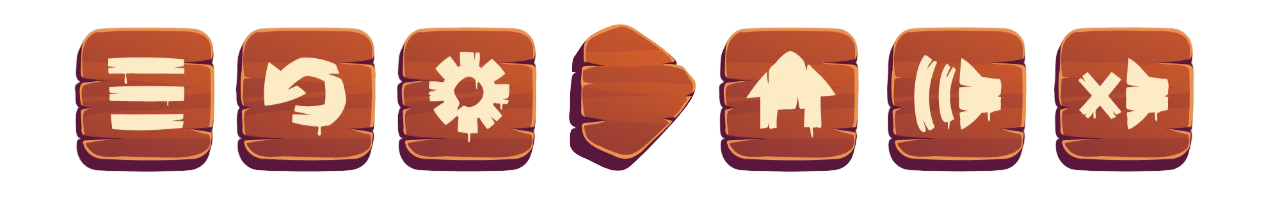
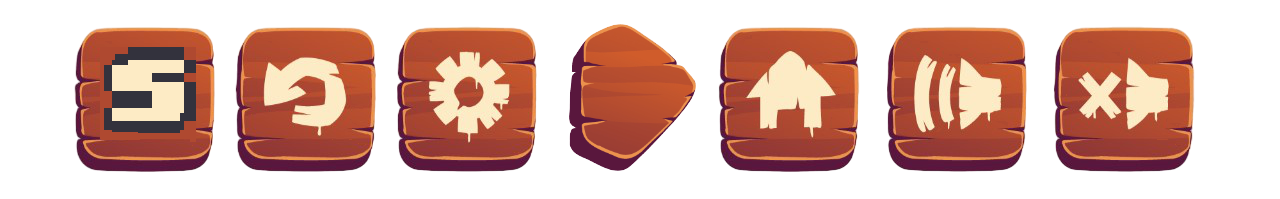
Updated Version

Changed region(s): [[0.0625, 0.2111, 0.1562, 0.6633], [0.0625, 0.6935, 0.0938, 0.7236]]

diff --git a/HeroOfLeotra/src/GameStates/Menu.java b/HeroOfLeotra/src/GameStates/Menu.java
@@ -10,7 +10,7 @@ import java.awt.event.KeyEvent;
 import java.awt.event.MouseEvent;
 import java.awt.image.BufferedImage;
 
-import static GameStates.GameState.QUIT;
+import static GameStates.GameState.*;
 
 public class Menu extends State implements stateMethods {
 
@@ -26,7 +26,7 @@ public class Menu extends State implements stateMethods {
 
     private void loadButtons() {
         buttons[0] = new MenuButton(Game.GAME_WIDTH/2 , (int)(150 * Game.SCALE),0,GameState.PLAYING);
-        buttons[1] = new MenuButton(Game.GAME_WIDTH/2 , (int)(210 * Game.SCALE),1,GameState.OPTIONS);
+        buttons[1] = new MenuButton(Game.GAME_WIDTH/2 , (int)(210 * Game.SCALE),1,GameState.LOAD);
         buttons[2] = new MenuButton(Game.GAME_WIDTH/2 , (int)(270 * Game.SCALE),2, QUIT);
 
     }
@@ -90,7 +90,13 @@ public class Menu extends State implements stateMethods {
                     mb.ModifyGameState();
                     if(mb.getGameState() == GameState.PLAYING)
                     {
+                        game.getPlaying().getPlayer().printCurrentHealth();
                         game.getAudioPlayer().setLevelSong(game.getPlaying().getLevelManager().getLevelIndex());
+                        /*int health = game.getPlaying().getPlayer().getCurrentHealth();
+                        System.out.println(health);
+                        game.getPlaying().getPlayer().setCurrentHealth(100);
+                        System.out.println(game.getPlaying().getPlayer().getCurrentHealth());
+                         */
                         //Adaugata noua in caz de da erori trebuie scoasa(Dedesubt)
                         game.getPlaying().getLevelManager().update();
 
@@ -99,9 +105,22 @@ public class Menu extends State implements stateMethods {
                     {
                         setGameState(GameState.QUIT); // va iesi instant
                     }
-                    if(mb.getGameState() == GameState.OPTIONS)
+                    if(mb.getGameState() == GameState.LOAD)
                     {
-                        // will happen something when i finish the options menu
+                        System.out.println("AM AJUNS AICI!!!!");
+                        double playerX = Game.getDataBase().getPlayerX();
+                        double playerY = Game.getDataBase().getPlayerY();
+                        int Health = Game.getDataBase().getHealth();
+
+                        GameState.state = PLAYING;
+                        game.getPlaying().resetAll();
+                        game.getPlaying().getPlayer().resetAllButSetPositionForPlayer(playerX,playerY);
+                        game.getPlaying().getPlayer().setCurrentHealth(Health);
+
+                        game.getAudioPlayer().setLevelSong(game.getPlaying().getLevelManager().getLevelIndex());
+                        game.getPlaying().getLevelManager().update();
+
+                        //setGameState(GameState.PLAYING);
                     }
                 }
                 break;

diff --git a/HeroOfLeotra/src/userInterface/PauseOverlay.java b/HeroOfLeotra/src/userInterface/PauseOverlay.java
@@ -22,7 +22,7 @@ public class PauseOverlay {
     private BufferedImage backgroundImg;
     private int bgX,bgY,bgW,bgH;
 
-    private UrmButton menuB,replayB,unpauseB;
+    private UrmButton menuB,replayB,saveB;
     public PauseOverlay(Playing playing)
     {
         this.playing = playing;
@@ -38,7 +38,7 @@ public class PauseOverlay {
 
         menuB = new UrmButton(menuX,bY,60,60,"MENU");
         replayB = new UrmButton(replayX,bY,60,60,"REPLAY");
-        unpauseB = new UrmButton(unpauseX,bY,60,60,"UNPAUSE");
+        saveB = new UrmButton(unpauseX,bY,60,60,"UNPAUSE");
 
     }
 
@@ -56,7 +56,7 @@ public class PauseOverlay {
     {
         menuB.update();
         replayB.update();
-        unpauseB.update();
+        saveB.update();
     }
 
     public void draw(Graphics g)
@@ -64,7 +64,7 @@ public class PauseOverlay {
         g.drawImage(backgroundImg,bgX,bgY,bgW,bgH,null);
         menuB.draw(g);
         replayB.draw(g);
-        unpauseB.draw(g);
+        saveB.draw(g);
     }
 
     public void mouseDragged(MouseEvent e)
@@ -87,9 +87,9 @@ public class PauseOverlay {
             replayB.setMousePressed(true);
             System.out.println("S-A APASAT IN JURUL REPLAY-ULUI");
         }
-        else if(isIn(e,unpauseB)) {
-            unpauseB.setMousePressed(true);
-            System.out.println("S-A APASAT IN JURUL UNPAUSE!");
+        else if(isIn(e,saveB)) {
+            saveB.setMousePressed(true);
+            System.out.println("S-A APASAT IN JURUL SAVE!");
         }
 
     }
@@ -112,14 +112,15 @@ public class PauseOverlay {
                     //System.out.println("S-a incercat REPLAY!");
                 }
             }
-        else if(isIn(e,unpauseB))
+        else if(isIn(e,saveB))
             {
-                playing.unpauseGame();
+                Game.getDataBase().update();
+                //playing.unpauseGame();
             }
 
         menuB.resetBools();
         replayB.resetBools();
-        unpauseB.resetBools();
+        saveB.resetBools();
     }
 
 }

diff --git a/HeroOfLeotra/src/Entities/Player.java b/HeroOfLeotra/src/Entities/Player.java
@@ -541,6 +541,28 @@ public class Player extends Entity{
             inAir = true;
         }
     }
+
+    public void resetHealth()
+    {
+        currentHealth = maxHealth;
+    }
+
+    public void resetAllButSetPositionForPlayer(double player_X,double player_Y){
+        resetDirectionBooleans();
+        inAir = false;
+        attacking = false;
+        moving = false;
+        playerAction = IDLE;
+        currentHealth = maxHealth;
+        hitbox.x = (float)player_X;
+        hitbox.y = (float)player_Y;
+        Score = 0;
+
+        if(!IsEntityOnFloor(hitbox,lvlData))
+        {
+            inAir = true;
+        }
+    }
     public static void updateScore(int value)
     {
         Score += value;
@@ -553,5 +575,26 @@ public class Player extends Entity{
     public static int getScore()
     {
         return Score;
+    }
+    public float getPlayerX()
+    {
+        return this.x;
+    }
+    public float getPlayerY()
+    {
+        return this.y;
+    }
+
+    public int getCurrentHealth()
+    {
+        return currentHealth;
+    }
+    public void setCurrentHealth(int health)
+    {
+        this.currentHealth = health;
+    }
+    public void printCurrentHealth()
+    {
+        System.out.println(currentHealth);
     }
 }

diff --git a/HeroOfLeotra/src/Entities/EnemyManager.java b/HeroOfLeotra/src/Entities/EnemyManager.java
@@ -47,7 +47,7 @@ public class EnemyManager {
         //System.out.println(skeletons.size());
         //System.out.println("LOAD ENEMIES APELAT!");
 
-        enemies += skeletons.size() + knights.size();
+        enemies += skeletons.size() + knights.size() + kings.size();
         numberEnemies = enemies; // specifically for enemies onLVL1
 
         //System.out.println("Number of skeletons:" +  skeletons.size());
@@ -293,6 +293,8 @@ public class EnemyManager {
             }
         }
     }
+
+
 
     public void update(int [][] lvlData,Player player)
     {

diff --git a/HeroOfLeotra/src/GameStates/Playing.java b/HeroOfLeotra/src/GameStates/Playing.java
@@ -420,6 +420,7 @@ public class Playing extends State implements stateMethods {
         lvlCompleted = false;
         player.resetAll();
         enemyManager.resetAllEnemies();
+        //Game.getDataBase().update();
     }
     public void checkEnemyHit(Rectangle2D.Float attackHitBox)
     {
@@ -430,6 +431,12 @@ public class Playing extends State implements stateMethods {
     {
         this.gameOver = gameOver;
     }
+
+    public void printGameOver()
+    {
+        System.out.println(gameOver);
+    }
+
 
     public EnemyManager getEnemyManager()
     {

diff --git a/HeroOfLeotra/src/userInterface/LevelCompletedOverlay.java b/HeroOfLeotra/src/userInterface/LevelCompletedOverlay.java
@@ -87,6 +87,8 @@ public class LevelCompletedOverlay {
                 //System.out.println(lvl_ind);
                 GameState.state = GameState.PLAYING;
                 playing.resetAll();
+                game.getPlaying().getPlayer().resetAll();
+
                 game.getAudioPlayer().setLevelSong(game.getPlaying().getLevelManager().getLevelIndex()); // Pt schimbarea muzicii
                 Game.getDataBase().update();
 

diff --git a/HeroOfLeotra/src/utilities/LoadSave.java b/HeroOfLeotra/src/utilities/LoadSave.java
@@ -28,7 +28,7 @@ public class LoadSave {
 
     public static final String MENU_BG_IMG = "Menu/foggy.png";
 
-    public static final String MENU_BUTTON = "Menu/Menu1.png";
+    public static final String MENU_BUTTON = "Menu/Menu_Load.png";
     public static final String SKELETON = "Enemies/Skeleton.png";
 
     public static final String KNIGHT ="Enemies/Knight.png";

diff --git a/HeroOfLeotra/src/userInterface/GameOverOverlay.java b/HeroOfLeotra/src/userInterface/GameOverOverlay.java
@@ -29,8 +29,10 @@ public class GameOverOverlay {
         if(e.getKeyCode() == KeyEvent.VK_ESCAPE)
         {
             playing.resetAll();
+            playing.printGameOver(); //gameOver in momentul de fata este false
             //LevelManager.setLvlIndex(1);
             GameState.state = GameState.MENU;
+
         }
     }
 }

diff --git a/HeroOfLeotra/src/Main/Game.java b/HeroOfLeotra/src/Main/Game.java
@@ -60,7 +60,7 @@ public class Game implements Runnable{
         audioPlayer = new AudioPlayer();
         menu = new Menu(this);
         playing = new Playing(this);
-        db = new DataBase();
+        db = new DataBase(this);
     }
 
     public void update()

diff --git a/HeroOfLeotra/src/GameStates/GameState.java b/HeroOfLeotra/src/GameStates/GameState.java
@@ -1,7 +1,7 @@
 package GameStates;
 
 public enum GameState {
-    MENU,PLAYING,OPTIONS,QUIT;
+    MENU,PLAYING,LOAD,QUIT;
 
     //Simple enum class for types of GameStates
 
